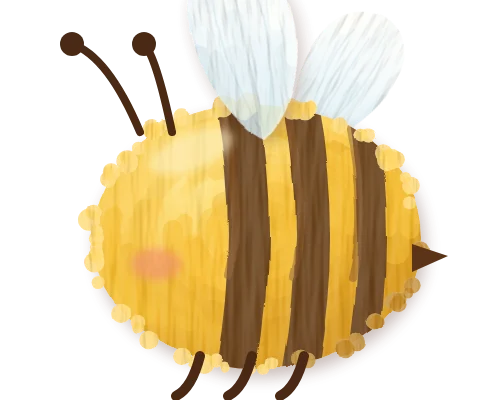
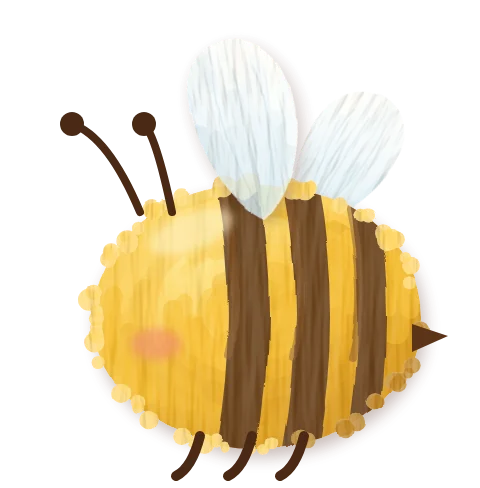
Buket: sayap lebah di mini-game tidak terpotong lagi
Kanvas lukisan lebah terlalu pendek sehingga ujung kedua sayapnya terpotong
rata di tepi atas. Kanvas diberi ruang 40 di atas (240×244), wajah yang
digambar di DOM dan posisi lebah disesuaikan supaya badannya tetap di titik
yang sama.

Claude-Session: https://claude.ai/code/session_01Br6JgvCCyNJjfHHZJfQocM

diff --git a/art/sprites/81-game-a.js b/art/sprites/81-game-a.js
@@ -21,10 +21,11 @@
     });
   }
 
-  /* ───────── kumbang gendut (menghadap kiri), kanvas 240×200 ─────────
-     wajah (mata, alis, mulut) digambar di DOM pada area sekitar (66..110, 80..130) */
-  F.sprites['game-kumbang'] = { w: 240, h: 200, seed: 811, draw(svg, R) {
-    const g = el('g', {}, svg);
+  /* ───────── lebah gendut (menghadap kiri), kanvas 240×244 ─────────
+     Semua digambar di koordinat 240×200 lalu diturunkan 40 supaya ujung sayapnya tidak terpotong tepi atas.
+     wajah (mata, alis, mulut) digambar di DOM pada area sekitar (66..110, 80..130) koordinat yang sama */
+  F.sprites['game-kumbang'] = { w: 240, h: 244, seed: 811, draw(svg, R) {
+    const g = el('g', { transform: 'translate(0 40)' }, svg);
     // sayap belakang (di balik badan)
     const WING = { stops: [[0, '#cfe6f2'], [0.6, '#eef8ff'], [1, '#ffffff']], shade: '#9cc3d8', light: '#ffffff' };
     const wb = el('g', { opacity: 0.78 }, g);

diff --git a/src/templates/buket/BeeGame.tsx b/src/templates/buket/BeeGame.tsx
@@ -30,7 +30,7 @@ function useRelBox(target: RefObject<HTMLElement | null>, field: HTMLElement | n
   return box;
 }
 
-/** Wajah lebah (digambar di atas lukisannya): makin diusir, makin cemberut. viewBox sama dengan sprite 240×200. */
+/** Wajah lebah (digambar di atas lukisannya): makin diusir, makin cemberut. Koordinatnya sama dengan lukisan lebah (digeser 40 ke bawah di kanvas 240×244). */
 function Face({ mood, munch }: { mood: number; munch: boolean }) {
   const ink = '#3a1d10';
   const eye = (x: number, y: number) => (
@@ -41,7 +41,7 @@ function Face({ mood, munch }: { mood: number; munch: boolean }) {
     </g>
   );
   return (
-    <svg className={s.face} viewBox="0 0 240 200" aria-hidden>
+    <svg className={s.face} viewBox="0 -40 240 244" aria-hidden>
       {mood === 0 ? (
         <>
           {/* nyam-nyam, mata tertutup bahagia */}

diff --git a/src/templates/buket/BeeGame.module.css b/src/templates/buket/BeeGame.module.css
@@ -35,8 +35,9 @@
 .bee {
   position: absolute;
   z-index: 2;
-  aspect-ratio: 240 / 200;
-  transform: translate(-50%, -50%);
+  aspect-ratio: 240 / 244;
+  /* kanvas lukisan punya ruang 40 di atas untuk sayap: digeser supaya badannya tetap di titik yang sama */
+  transform: translate(-50%, -57.4%);
   transition:
     left 0.9s cubic-bezier(0.45, 0, 0.3, 1),
     top 0.9s cubic-bezier(0.45, -0.6, 0.3, 1.2);
@@ -95,8 +96,8 @@
   animation: huff 1.6s cubic-bezier(0.5, 0, 0.6, 1) forwards;
 }
 @keyframes huff {
-  0% { transform: translate(-50%, -50%); }
-  18% { transform: translate(-50%, -62%) scale(1.08); }
+  0% { transform: translate(-50%, -57.4%); }
+  18% { transform: translate(-50%, -67.2%) scale(1.08); }
   100% { transform: translate(160%, -420%) scale(0.5) rotate(18deg); opacity: 0; }
 }
 .chew {
